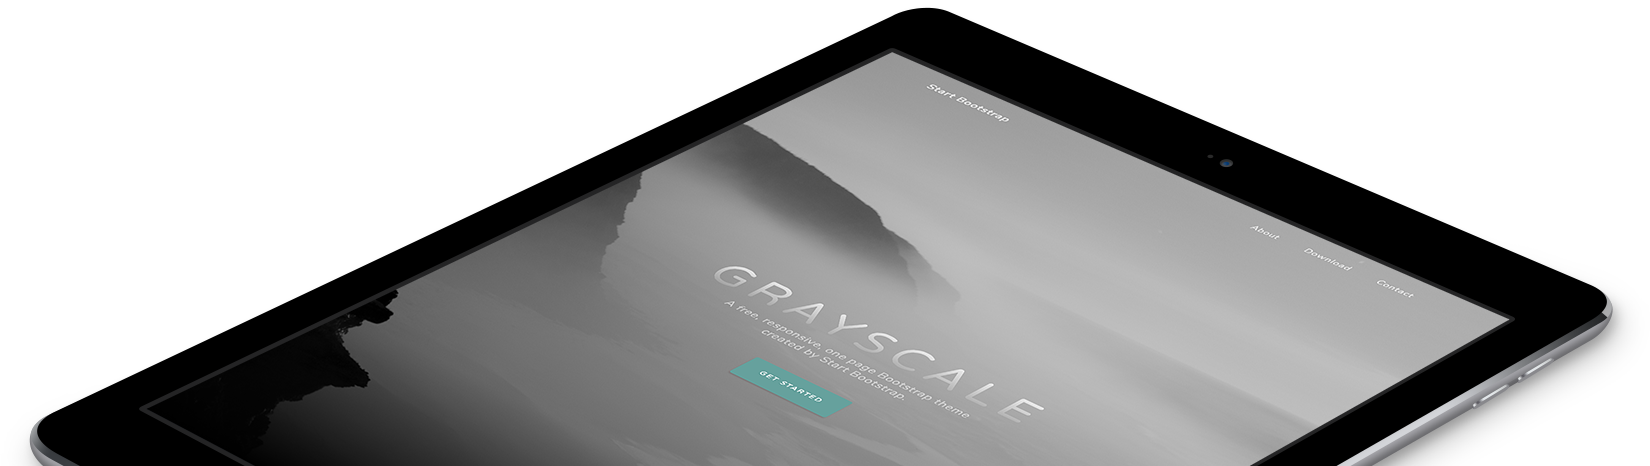
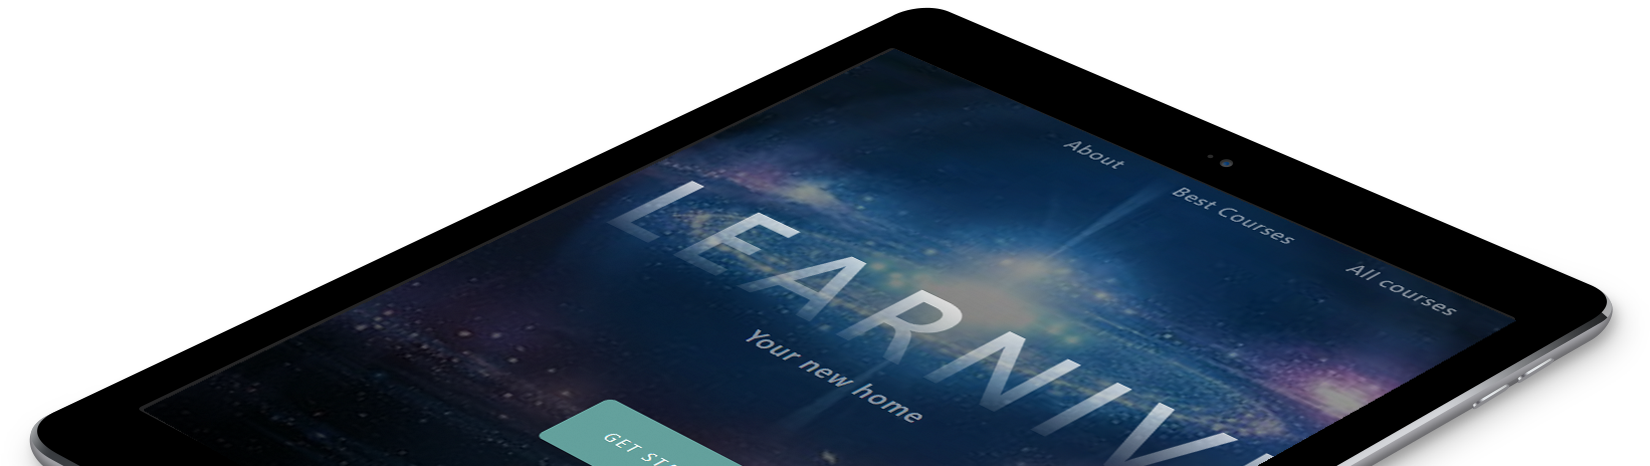
add Subscribed Members button, add homepage ipad pic, remove button for subs from navbar,

diff --git a/frontend/src/components/Courses/SubscribedMembers.jsx b/frontend/src/components/Courses/SubscribedMembers.jsx
@@ -1,49 +1,91 @@
-import React, { useEffect, useState } from "react";
-import { useNavigate } from "react-router-dom";
+import React, { useEffect, useState } from 'react';
+import { useParams, useNavigate } from 'react-router-dom';
 import Navbar from "../Navbar/Navbar";
+import Loader from "../Loader/Loader";
 
-let token = localStorage.getItem('token');
-
-const SubscribedMembers = () => {
-  const [members, setMembers] = useState([]);
-  const [courseMembers, setCourseMembers] = useState([]);
+export default function SubscribedMembers() {
+  const { courseID } = useParams();
   const navigate = useNavigate();
+  const token = JSON.parse(localStorage.getItem("token"));
+
+  const [subscribers, setSubscribers] = useState([]);
+  const [loading, setLoading] = useState(true);
+  const [error, setError] = useState(null);
 
   useEffect(() => {
-    const fetchMembers = async () => {
+    console.log(`courseID: ${courseID}`); // Verify courseID
+
+    if (!token) {
+      navigate('/login');
+      return;
+    }
+
+    const fetchSubscribers = async () => {
       try {
-        const response = await fetch("http://127.0.0.1:8000/teacher_panel/7/subscribers", {
+        if (!courseID) {
+          throw new Error('Invalid courseID');
+        }
+
+        const response = await fetch(`http://127.0.0.1:8000/courses/subscribers/${courseID}`, {
           headers: {
-            Authorization: `Bearer ${token.replace(/^"|"$/g, '')}`,
+            Authorization: `Bearer ${token}`,
+            'Content-Type': 'application/json',
           },
         });
+
         if (!response.ok) {
-          throw new Error("Failed to fetch data");
+          const errorText = await response.text();
+          throw new Error(`Failed to fetch subscribers: ${response.statusText} - ${errorText}`);
         }
+
         const data = await response.json();
-        setMembers(data.Members);
-        setCourseMembers(data['Course Subscribers']);
-        console.log(data)
-      } catch (error) {
-        console.error("Error:", error);
+        console.log("Fetched subscribers data:", data); // Log fetched data
+        setSubscribers(data.Subscribers);
+      } catch (err) {
+        console.error("Error fetching subscribers:", err);
+        setError(err);
+      } finally {
+        setLoading(false);
       }
     };
 
-    fetchMembers();
-  }, []);
+    fetchSubscribers();
+  }, [courseID, token, navigate]);
+
+  if (loading) return <Loader />;
+  if (error) return <div>Error: {error.message}</div>;
+  if (!subscribers.length) return <div>No subscribers found.</div>;
 
   return (
-    <>
-      <h1
-        style={{
-          color: "black",
-        }}
-      >
-        Course Members
-      </h1>
-      <pre>{JSON.stringify(courseMembers, null, 2)}</pre>
-    </>
-  );
-};
+    <section style={{ background: 'linear-gradient(135deg, #1c1c3c, #3a3a80)', color: '#fff', padding: '100px 0' }}>
+      <div style={{ maxWidth: '1200px', margin: '0 auto', padding: '35px' }}>
+        <Navbar location="course/subscribed-members" />
 
-export default SubscribedMembers;
+        <div style={{ marginBottom: '50px', textAlign: 'center' }}>
+          <h1 style={{ color: '#fff', fontSize: '3rem' }}>Subscribed Members</h1>
+        </div>
+
+        <div style={{ display: 'flex', flexDirection: 'column', gap: '10px', alignItems: 'center' }}>
+          {subscribers.map((subscriber, index) => (
+            <div key={index} style={{
+              background: 'rgba(255, 255, 255, 0.1)',
+              borderRadius: '8px',
+              padding: '10px 20px',
+              width: '300px',
+              textAlign: 'center',
+              boxShadow: '0 4px 8px rgba(0, 0, 0, 0.1)',
+              backdropFilter: 'blur(10px)',
+              color: '#fff',
+              display: 'flex',
+              justifyContent: 'space-between',
+              alignItems: 'center'
+            }}>
+              <p style={{ fontSize: '1.5rem', fontWeight: 'bold', margin: 0 }}>{subscriber[0]}</p>
+              <p style={{ fontSize: '1.5rem', margin: 0 }}>{subscriber[1]}</p>
+            </div>
+          ))}
+        </div>
+      </div>
+    </section>
+  );
+}

diff --git a/frontend/src/components/Courses/CourseSections.jsx b/frontend/src/components/Courses/CourseSections.jsx
@@ -13,10 +13,10 @@ export default function CourseSections() {
   const [loading, setLoading] = useState(true);
   const [error, setError] = useState(null);
   const [showSections, setShowSections] = useState(false);
-  const [isSubscribed, setIsSubscribed] = useState(false);
-  const [showRatingOptions, setShowRatingOptions] = useState(false);
+  const [isSubscribed, setIsSubscribed] = useState(null);
+  const [showRatingOptions, setShowRatingOptions] = useState(null);
   const [userRating, setUserRating] = useState(null);
-  const [isHidden, setIsHidden] = useState(false); // New state for course visibility
+  const [isHidden, setIsHidden] = useState(null);
 
   const handleSubscribe = async () => {
     try {
@@ -151,7 +151,7 @@ export default function CourseSections() {
             right: '35px',
             backgroundColor: isHidden ? '#ffcccb' : '#ff0000',
             color: '#fff',
-            padding: '12px 20px',
+            padding: '10px 20px',
             border: 'none',
             borderRadius: '50px',
             cursor: 'pointer',
@@ -166,6 +166,27 @@ export default function CourseSections() {
           onMouseLeave={(e) => e.currentTarget.style.transform = 'scale(1)'}
         >
           {isHidden ? 'Unhide Course' : 'Hide Course'}
+        </button>
+        <button
+          onClick={() => navigate(`/courses/subscribers/${courseID}`)}
+          style={{
+            backgroundColor: '#1c1c3c',
+            color: '#fff',
+            padding: '12px 20px',
+            border: 'none',
+            borderRadius: '50px',
+            cursor: 'pointer',
+            fontSize: '1rem',
+            boxShadow: '0 4px 8px rgba(0, 0, 0, 0.1)',
+            transition: 'background-color 0.3s ease, transform 0.3s ease',
+            transform: 'scale(1)',
+            textTransform: 'uppercase',
+            letterSpacing: '1px',
+          }}
+          onMouseEnter={(e) => e.currentTarget.style.transform = 'scale(1.05)'}
+          onMouseLeave={(e) => e.currentTarget.style.transform = 'scale(1)'}
+        >
+          Subscribed Members
         </button>
 
         <div style={{ marginBottom: '50px', textAlign: 'center' }}>

diff --git a/frontend/src/components/Navbar/Navbar.jsx b/frontend/src/components/Navbar/Navbar.jsx
@@ -2,7 +2,7 @@ import React, { useState, useEffect, useContext } from "react";
 import { Link } from "react-router-dom";
 import AppContext from "../../context/AppContext";
 import "./Navbar.css";
-import  useRoleCheck  from "../../hooks/roleCheck";
+import useRoleCheck from "../../hooks/roleCheck";
 
 export default function Navbar({ location }) {
   const [dropdownOpen, setDropdownOpen] = useState(false);
@@ -161,27 +161,19 @@ export default function Navbar({ location }) {
             {locationLowerCase === "course/sections/" && (
               <>
                 {context.token && role !== 'student' && (
-                <li className="nav-item">
-                  <Link to="/sections/create-section/" className="nav-link">
-                    Create Section
-                  </Link>
-                </li>
-                  )}
-                  {context.token && role !== 'student' && (
-                <li className="nav-item">
-                  <Link to="/sections/delete-section/" className="nav-link">
-                    Delete Section
-                  </Link>
-                </li>
+                  <li className="nav-item">
+                    <Link to="/sections/create-section/" className="nav-link">
+                      Create Section
+                    </Link>
+                  </li>
                 )}
                 {context.token && role !== 'student' && (
-                <li className="nav-item">
-                  <a className="nav-link" href="/course/subscribedMembers">
-                    Subscribed Members
-                  </a>
-                </li>
+                  <li className="nav-item">
+                    <Link to="/sections/delete-section/" className="nav-link">
+                      Delete Section
+                    </Link>
+                  </li>
                 )}
-
                 {context.token && (
                   <li className={`nav-item dropdown ${dropdownOpen ? "open" : ""}`}>
                     <button className="profile-btn nav-link" onClick={toggleDropdown}>

diff --git a/frontend/src/App.css b/frontend/src/App.css
@@ -1,6 +1,17 @@
-body,
-html {
+/* App.css */
+
+html, body {
   height: 100%;
-  margin: 0; /* Remove default margins */
-  padding: 0; /* Remove default padding */
+  margin: 0;
+  padding: 0;
+}
+
+#root {
+  height: 100%;
+}
+
+section {
+  min-height: 100vh;
+  display: flex;
+  flex-direction: column;
 }

diff --git a/frontend/src/routes.jsx b/frontend/src/routes.jsx
@@ -104,7 +104,7 @@ export const router = createBrowserRouter([
     element: <UpdatePhone />,
   },
      {
-    path: "course/subscribedMembers",
+    path: "/courses/subscribers/:courseID",
     element: <SubscribedMembers />,
   },
       {

diff --git a/backend/app/api/routes/course.py b/backend/app/api/routes/course.py
@@ -6,7 +6,8 @@ from backend.app.api.services.login_services import get_current_user
 from backend.app.api.services.course_services import (new_course, switch_status, subscribe,
                                                       delete_course, unsubscribe, rate, view_all,
                                                       view_particular, show_ratings, check_for_subscription,
-                                                      get_pic_for_frontend, check_for_rating_frontend, hide_course)
+                                                      get_pic_for_frontend, check_for_rating_frontend, hide_course,
+                                                      view_subscribers)
 import logging
 
 course_router = APIRouter(prefix="/courses")
@@ -42,6 +43,12 @@ def view_course(user: user_dependency, course_id: int):
     user_id = user.get("id")
     user_role = user.get("role")
     return view_particular(course_id, user_id, user_role)
+
+
+@course_router.get("/subscribers/{course_id}", status_code=200)
+def view_subs(user: user_dependency, course_id: int):
+    """This method shows all users subscribed to a particular course if there are such."""
+    return view_subscribers(course_id)
 
 
 @course_router.post("/new", status_code=201)

diff --git a/backend/app/api/services/course_services.py b/backend/app/api/services/course_services.py
@@ -162,6 +162,14 @@ def rate(user_id: int = Field(gt=0), course_id: int = Field(gt=0), rating: int =
     return {"message": f"You have rated this course {rating} out of 10!"}
 
 
+def view_subscribers(course_id: int = Field(..., gt=0)):
+    sql = ("SELECT u.firstname, u.lastname FROM users u JOIN subscription s "
+           "ON u.user_id = s.user_id WHERE s.course_id = %s;")
+    execute = data.database.read_query(sql, (course_id,))
+    return {"Subscribers": execute}
+
+
+
 def update_course_rating(course_id: int, rating: int):
     rates_sql = "SELECT COUNT(*), SUM(rating) FROM course_rating WHERE course_id = %s"
     execute_rates_sql = data.database.read_query(rates_sql, (course_id,))
